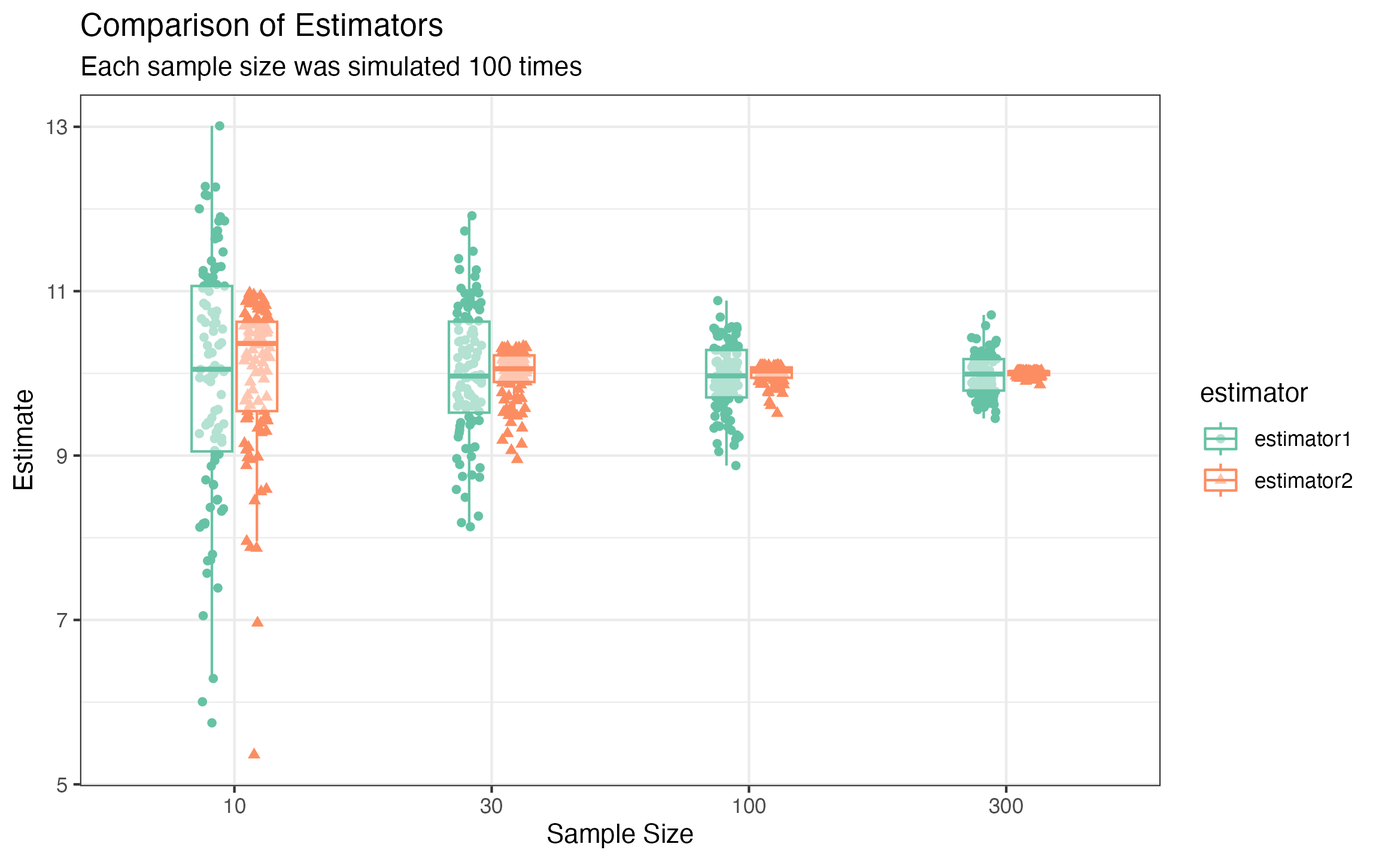
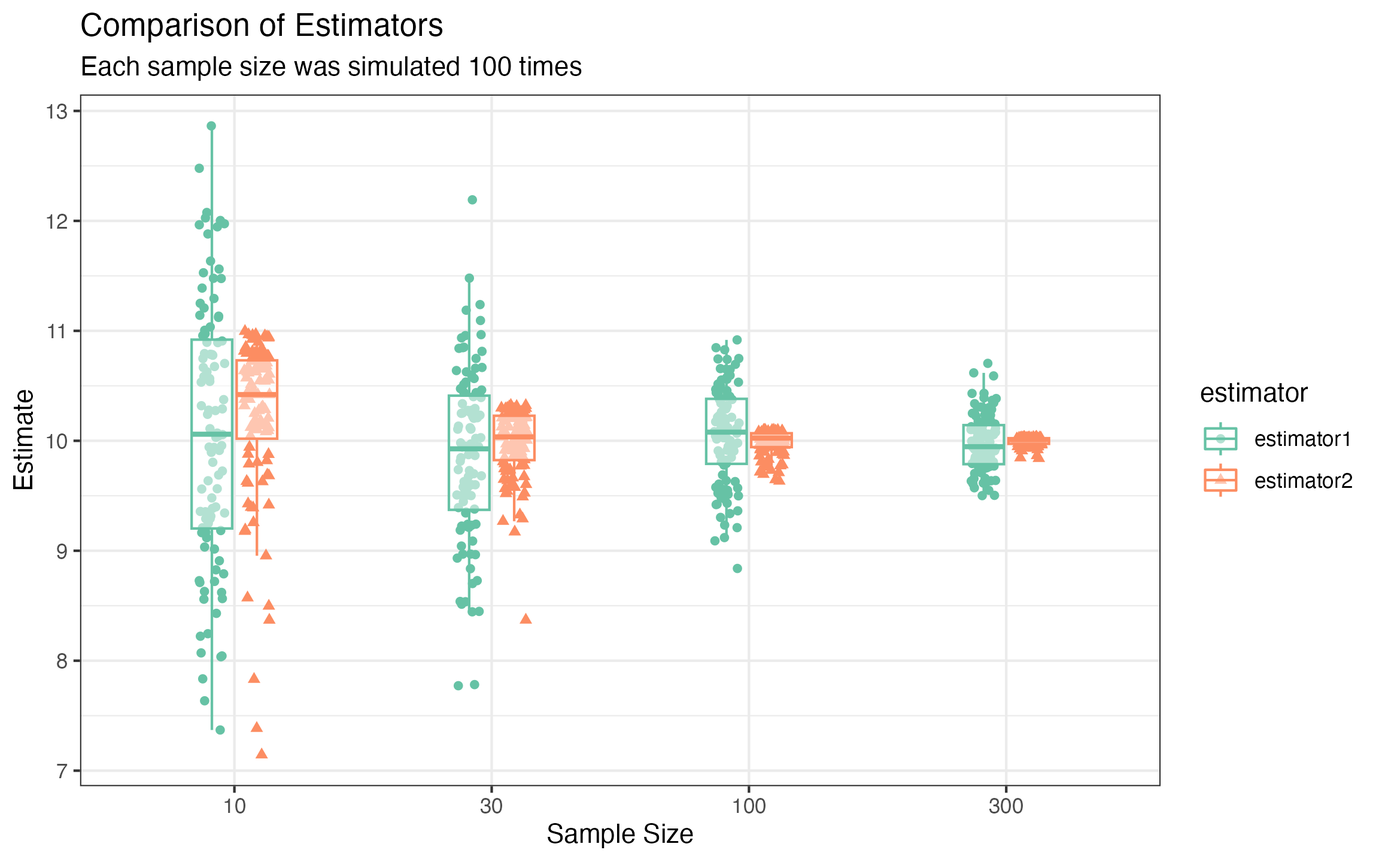
minor formatting update

diff --git a/docs/articles/Comparing-Estimators.html b/docs/articles/Comparing-Estimators.html
@@ -17,6 +17,7 @@
 <script src="../deps/bootstrap-5.3.1/bootstrap.bundle.min.js"></script><link href="../deps/font-awesome-6.4.0/css/all.min.css" rel="stylesheet">
 <link href="../deps/font-awesome-6.4.0/css/v4-shims.min.css" rel="stylesheet">
 <script src="../deps/headroom-0.11.0/headroom.min.js"></script><script src="../deps/headroom-0.11.0/jQuery.headroom.min.js"></script><script src="../deps/bootstrap-toc-1.0.1/bootstrap-toc.min.js"></script><script src="../deps/clipboard.js-2.0.11/clipboard.min.js"></script><script src="../deps/search-1.0.0/autocomplete.jquery.min.js"></script><script src="../deps/search-1.0.0/fuse.min.js"></script><script src="../deps/search-1.0.0/mark.min.js"></script><!-- pkgdown --><script src="../pkgdown.js"></script><meta property="og:title" content="Comparing Estimators">
+<style> img.logo { width: 200px !important; } </style>
 </head>
 <body>
     <a href="#main" class="visually-hidden-focusable">Skip to contents</a>
@@ -68,7 +69,8 @@
 
     
     
-<p>A famous example of an inference problem where a faster than
+<p>A famous example of a statistical inference problem where a faster
+than
 <math display="inline" xmlns="http://www.w3.org/1998/Math/MathML"><semantics><msqrt><mi>n</mi></msqrt><annotation encoding="application/x-tex">\sqrt{n}</annotation></semantics></math>
 rate of convergence is possible is that of inferring the
 <math display="inline" xmlns="http://www.w3.org/1998/Math/MathML"><semantics><mi>θ</mi><annotation encoding="application/x-tex">\theta</annotation></semantics></math>
@@ -79,24 +81,16 @@ model.</p>
 order statistic based estimator empirically using
 <code>{Simulacron3}</code>.</p>
 <p>For our first estimator, we will take
-<math display="block" xmlns="http://www.w3.org/1998/Math/MathML"><semantics><mrow><msub><mover><mi>θ</mi><mo accent="true">̂</mo></mover><mrow><mi>n</mi><mo>,</mo><mtext mathvariant="normal">MoM</mtext></mrow></msub><mo>=</mo><msqrt><mrow><mfrac><mn>3</mn><mi>n</mi></mfrac><munderover><mo>∑</mo><mrow><mi>i</mi><mo>=</mo><mn>1</mn></mrow><mi>n</mi></munderover><msubsup><mi>X</mi><mi>i</mi><mn>2</mn></msubsup></mrow></msqrt><mi>.</mi></mrow><annotation encoding="application/x-tex">
-\hat{\theta}_{n, \text{MoM}} = \sqrt{\frac{3}{n} \sum_{i=1}^n X_i^2}.
+<math display="block" xmlns="http://www.w3.org/1998/Math/MathML"><semantics><mrow><msub><mover><mi>θ</mi><mo accent="true">̂</mo></mover><mrow><mi>n</mi><mo>,</mo><mspace width="0.167em"></mspace><mtext mathvariant="normal">MoM</mtext></mrow></msub><mo>=</mo><msqrt><mrow><mfrac><mn>3</mn><mi>n</mi></mfrac><munderover><mo>∑</mo><mrow><mi>i</mi><mo>=</mo><mn>1</mn></mrow><mi>n</mi></munderover><msubsup><mi>X</mi><mi>i</mi><mn>2</mn></msubsup></mrow></msqrt><mi>.</mi></mrow><annotation encoding="application/x-tex">
+\hat{\theta}_{n,\,\text{MoM}} = \sqrt{\frac{3}{n} \sum_{i=1}^n X_i^2}.
 </annotation></semantics></math></p>
-<p>And our second estimator will be
-<math display="block" xmlns="http://www.w3.org/1998/Math/MathML"><semantics><mrow><msub><mover><mi>θ</mi><mo accent="true">̂</mo></mover><mrow><mi>n</mi><mo>,</mo><mrow><mi mathvariant="normal">m</mi><mi mathvariant="normal">a</mi><mi mathvariant="normal">x</mi></mrow></mrow></msub><mo>=</mo><mfrac><mrow><mi>n</mi><mo>+</mo><mn>1</mn></mrow><mi>n</mi></mfrac><munder><mo>max</mo><mrow><mi>i</mi><mo>=</mo><mn>1</mn><mo>,</mo><mi>.</mi><mi>.</mi><mi>.</mi><mo>,</mo><mi>n</mi></mrow></munder><mrow><mo stretchy="true" form="prefix">|</mo><msub><mi>X</mi><mi>i</mi></msub><mo stretchy="true" form="postfix">|</mo></mrow></mrow><annotation encoding="application/x-tex">
-\hat{\theta}_{n, \mathrm{max}} = \frac{n+1}{n} \max_{i=1,...,n} |X_i|
+<p>Our second estimator will be
+<math display="block" xmlns="http://www.w3.org/1998/Math/MathML"><semantics><mrow><msub><mover><mi>θ</mi><mo accent="true">̂</mo></mover><mrow><mi>n</mi><mo>,</mo><mspace width="0.167em"></mspace><mrow><mi mathvariant="normal">m</mi><mi mathvariant="normal">a</mi><mi mathvariant="normal">x</mi></mrow></mrow></msub><mo>=</mo><mfrac><mrow><mi>n</mi><mo>+</mo><mn>1</mn></mrow><mi>n</mi></mfrac><munder><mo>max</mo><mrow><mi>i</mi><mo>∈</mo><mn>1</mn><mo>,</mo><mi>.</mi><mi>.</mi><mi>.</mi><mo>,</mo><mi>n</mi></mrow></munder><mrow><mo stretchy="true" form="prefix">|</mo><msub><mi>X</mi><mi>i</mi></msub><mo stretchy="true" form="postfix">|</mo></mrow></mrow><annotation encoding="application/x-tex">
+\hat{\theta}_{n,\,\mathrm{max}} = \frac{n+1}{n} \max_{i\in 1,...,n} |X_i|
 </annotation></semantics></math></p>
 <div class="sourceCode" id="cb1"><pre class="downlit sourceCode r">
 <code class="sourceCode R"><span><span class="kw"><a href="https://rdrr.io/r/base/library.html" class="external-link">library</a></span><span class="op">(</span><span class="va">Simulacron3</span><span class="op">)</span></span>
-<span><span class="kw"><a href="https://rdrr.io/r/base/library.html" class="external-link">library</a></span><span class="op">(</span><span class="va"><a href="https://dplyr.tidyverse.org" class="external-link">dplyr</a></span><span class="op">)</span></span>
-<span><span class="co">#&gt; </span></span>
-<span><span class="co">#&gt; Attaching package: 'dplyr'</span></span>
-<span><span class="co">#&gt; The following objects are masked from 'package:stats':</span></span>
-<span><span class="co">#&gt; </span></span>
-<span><span class="co">#&gt;     filter, lag</span></span>
-<span><span class="co">#&gt; The following objects are masked from 'package:base':</span></span>
-<span><span class="co">#&gt; </span></span>
-<span><span class="co">#&gt;     intersect, setdiff, setequal, union</span></span>
+<span><span class="fu"><a href="https://rdrr.io/r/base/message.html" class="external-link">suppressMessages</a></span><span class="op">(</span><span class="kw"><a href="https://rdrr.io/r/base/library.html" class="external-link">library</a></span><span class="op">(</span><span class="va"><a href="https://dplyr.tidyverse.org" class="external-link">dplyr</a></span><span class="op">)</span><span class="op">)</span></span>
 <span><span class="kw"><a href="https://rdrr.io/r/base/library.html" class="external-link">library</a></span><span class="op">(</span><span class="va"><a href="https://ggplot2.tidyverse.org" class="external-link">ggplot2</a></span><span class="op">)</span></span>
 <span><span class="kw"><a href="https://rdrr.io/r/base/library.html" class="external-link">library</a></span><span class="op">(</span><span class="va"><a href="https://tidyr.tidyverse.org" class="external-link">tidyr</a></span><span class="op">)</span></span>
 <span></span>
@@ -126,11 +120,9 @@ order statistic based estimator empirically using
 <span><span class="va">sim</span><span class="op">$</span><span class="fu">set_dgp</span><span class="op">(</span><span class="va">unif_dgp</span><span class="op">)</span></span>
 <span><span class="va">sim</span><span class="op">$</span><span class="fu">set_estimators</span><span class="op">(</span><span class="fu"><a href="https://rdrr.io/r/base/list.html" class="external-link">list</a></span><span class="op">(</span>estimator1 <span class="op">=</span> <span class="va">estimator1</span>, estimator2 <span class="op">=</span> <span class="va">estimator2</span><span class="op">)</span><span class="op">)</span></span>
 <span><span class="va">sim</span><span class="op">$</span><span class="fu">set_summary_stats</span><span class="op">(</span><span class="va">summary_func</span><span class="op">)</span></span>
-<span><span class="va">sim</span><span class="op">$</span><span class="fu">run</span><span class="op">(</span><span class="op">)</span></span>
-<span><span class="co">#&gt; Running simulation...</span></span>
 <span></span>
+<span><span class="co"># setup a data frame to store results in across sample sizes</span></span>
 <span><span class="va">results</span> <span class="op">&lt;-</span> <span class="fu"><a href="https://rdrr.io/r/base/data.frame.html" class="external-link">data.frame</a></span><span class="op">(</span><span class="op">)</span></span>
-<span></span>
 <span><span class="kw">for</span> <span class="op">(</span><span class="va">sample_size_i</span> <span class="kw">in</span> <span class="fu"><a href="https://rdrr.io/r/base/c.html" class="external-link">c</a></span><span class="op">(</span><span class="fl">10</span>, <span class="fl">30</span>, <span class="fl">100</span>, <span class="fl">300</span><span class="op">)</span><span class="op">)</span> <span class="op">{</span></span>
 <span>  <span class="va">sim</span><span class="op">$</span><span class="fu">set_config</span><span class="op">(</span><span class="fu"><a href="https://rdrr.io/r/base/list.html" class="external-link">list</a></span><span class="op">(</span>sample_size <span class="op">=</span> <span class="va">sample_size_i</span><span class="op">)</span><span class="op">)</span></span>
 <span>  <span class="va">sim</span><span class="op">$</span><span class="fu">run</span><span class="op">(</span><span class="op">)</span></span>
@@ -157,6 +149,8 @@ order statistic based estimator empirically using
 <span>  <span class="fu"><a href="https://ggplot2.tidyverse.org/reference/labs.html" class="external-link">ggtitle</a></span><span class="op">(</span><span class="st">"Comparison of Estimators"</span>, <span class="st">"Each sample size was simulated 100 times"</span><span class="op">)</span> <span class="op">+</span> </span>
 <span>  <span class="fu"><a href="https://ggplot2.tidyverse.org/reference/labs.html" class="external-link">labs</a></span><span class="op">(</span>x <span class="op">=</span> <span class="st">"Sample Size"</span>, y <span class="op">=</span> <span class="st">"Estimate"</span><span class="op">)</span> </span></code></pre></div>
 <p><img src="Comparing-Estimators_files/figure-html/setup-1.png" width="768"></p>
+<p>We can see that we were right: <code>estimator2</code> is converging
+quite a bit faster than <code>estimator1</code>.</p>
   </main>
 </div>
 

diff --git a/docs/404.html b/docs/404.html
@@ -6,26 +6,27 @@
 <meta http-equiv="X-UA-Compatible" content="IE=edge">
 <meta name="viewport" content="width=device-width, initial-scale=1, shrink-to-fit=no">
 <title>Page not found (404) • Simulacron3</title>
-<!-- favicons --><link rel="icon" type="image/png" sizes="16x16" href="favicon-16x16.png">
-<link rel="icon" type="image/png" sizes="32x32" href="favicon-32x32.png">
-<link rel="apple-touch-icon" type="image/png" sizes="180x180" href="apple-touch-icon.png">
-<link rel="apple-touch-icon" type="image/png" sizes="120x120" href="apple-touch-icon-120x120.png">
-<link rel="apple-touch-icon" type="image/png" sizes="76x76" href="apple-touch-icon-76x76.png">
-<link rel="apple-touch-icon" type="image/png" sizes="60x60" href="apple-touch-icon-60x60.png">
-<script src="deps/jquery-3.6.0/jquery-3.6.0.min.js"></script><meta name="viewport" content="width=device-width, initial-scale=1, shrink-to-fit=no">
-<link href="deps/bootstrap-5.3.1/bootstrap.min.css" rel="stylesheet">
-<script src="deps/bootstrap-5.3.1/bootstrap.bundle.min.js"></script><link href="deps/font-awesome-6.4.0/css/all.min.css" rel="stylesheet">
-<link href="deps/font-awesome-6.4.0/css/v4-shims.min.css" rel="stylesheet">
-<script src="deps/headroom-0.11.0/headroom.min.js"></script><script src="deps/headroom-0.11.0/jQuery.headroom.min.js"></script><script src="deps/bootstrap-toc-1.0.1/bootstrap-toc.min.js"></script><script src="deps/clipboard.js-2.0.11/clipboard.min.js"></script><script src="deps/search-1.0.0/autocomplete.jquery.min.js"></script><script src="deps/search-1.0.0/fuse.min.js"></script><script src="deps/search-1.0.0/mark.min.js"></script><!-- pkgdown --><script src="pkgdown.js"></script><meta property="og:title" content="Page not found (404)">
-<meta property="og:image" content="/logo.png">
+<!-- favicons --><link rel="icon" type="image/png" sizes="16x16" href="ctesta01.github.io/Simulacron3/favicon-16x16.png">
+<link rel="icon" type="image/png" sizes="32x32" href="ctesta01.github.io/Simulacron3/favicon-32x32.png">
+<link rel="apple-touch-icon" type="image/png" sizes="180x180" href="ctesta01.github.io/Simulacron3/apple-touch-icon.png">
+<link rel="apple-touch-icon" type="image/png" sizes="120x120" href="ctesta01.github.io/Simulacron3/apple-touch-icon-120x120.png">
+<link rel="apple-touch-icon" type="image/png" sizes="76x76" href="ctesta01.github.io/Simulacron3/apple-touch-icon-76x76.png">
+<link rel="apple-touch-icon" type="image/png" sizes="60x60" href="ctesta01.github.io/Simulacron3/apple-touch-icon-60x60.png">
+<script src="ctesta01.github.io/Simulacron3/deps/jquery-3.6.0/jquery-3.6.0.min.js"></script><meta name="viewport" content="width=device-width, initial-scale=1, shrink-to-fit=no">
+<link href="ctesta01.github.io/Simulacron3/deps/bootstrap-5.3.1/bootstrap.min.css" rel="stylesheet">
+<script src="ctesta01.github.io/Simulacron3/deps/bootstrap-5.3.1/bootstrap.bundle.min.js"></script><link href="ctesta01.github.io/Simulacron3/deps/font-awesome-6.4.0/css/all.min.css" rel="stylesheet">
+<link href="ctesta01.github.io/Simulacron3/deps/font-awesome-6.4.0/css/v4-shims.min.css" rel="stylesheet">
+<script src="ctesta01.github.io/Simulacron3/deps/headroom-0.11.0/headroom.min.js"></script><script src="ctesta01.github.io/Simulacron3/deps/headroom-0.11.0/jQuery.headroom.min.js"></script><script src="ctesta01.github.io/Simulacron3/deps/bootstrap-toc-1.0.1/bootstrap-toc.min.js"></script><script src="ctesta01.github.io/Simulacron3/deps/clipboard.js-2.0.11/clipboard.min.js"></script><script src="ctesta01.github.io/Simulacron3/deps/search-1.0.0/autocomplete.jquery.min.js"></script><script src="ctesta01.github.io/Simulacron3/deps/search-1.0.0/fuse.min.js"></script><script src="ctesta01.github.io/Simulacron3/deps/search-1.0.0/mark.min.js"></script><!-- pkgdown --><script src="ctesta01.github.io/Simulacron3/pkgdown.js"></script><meta property="og:title" content="Page not found (404)">
+<meta property="og:image" content="ctesta01.github.io/Simulacron3/logo.png">
+<style> img.logo { width: 200px !important; } </style>
 </head>
 <body>
-    <a href="#main" class="visually-hidden-focusable">Skip to contents</a>
+    <a href="ctesta01.github.io/Simulacron3/#main" class="visually-hidden-focusable">Skip to contents</a>
 
 
     <nav class="navbar navbar-expand-lg fixed-top bg-light" data-bs-theme="light" aria-label="Site navigation"><div class="container">
 
-    <a class="navbar-brand me-2" href="index.html">Simulacron3</a>
+    <a class="navbar-brand me-2" href="ctesta01.github.io/Simulacron3/index.html">Simulacron3</a>
 
     <small class="nav-text text-muted me-auto" data-bs-toggle="tooltip" data-bs-placement="bottom" title="">0.0.001</small>
 
@@ -36,11 +37,11 @@
 
     <div id="navbar" class="collapse navbar-collapse ms-3">
       <ul class="navbar-nav me-auto">
-<li class="nav-item"><a class="nav-link" href="reference/index.html">Reference</a></li>
+<li class="nav-item"><a class="nav-link" href="ctesta01.github.io/Simulacron3/reference/index.html">Reference</a></li>
 <li class="nav-item dropdown">
   <button class="nav-link dropdown-toggle" type="button" id="dropdown-articles" data-bs-toggle="dropdown" aria-expanded="false" aria-haspopup="true">Articles</button>
   <ul class="dropdown-menu" aria-labelledby="dropdown-articles">
-<li><a class="dropdown-item" href="articles/Comparing-Estimators.html">Comparing Estimators</a></li>
+<li><a class="dropdown-item" href="ctesta01.github.io/Simulacron3/articles/Comparing-Estimators.html">Comparing Estimators</a></li>
   </ul>
 </li>
       </ul>
@@ -56,7 +57,7 @@
 </nav><div class="container template-title-body">
 <div class="row">
   <main id="main" class="col-md-9"><div class="page-header">
-      <img src="logo.png" class="logo" alt=""><h1>Page not found (404)</h1>
+      <img src="ctesta01.github.io/Simulacron3/logo.png" class="logo" alt=""><h1>Page not found (404)</h1>
 
     </div>
 

diff --git a/docs/reference/index.html b/docs/reference/index.html
@@ -1,5 +1,5 @@
 <!DOCTYPE html>
-<!-- Generated by pkgdown: do not edit by hand --><html lang="en"><head><meta http-equiv="Content-Type" content="text/html; charset=UTF-8"><meta charset="utf-8"><meta http-equiv="X-UA-Compatible" content="IE=edge"><meta name="viewport" content="width=device-width, initial-scale=1, shrink-to-fit=no"><title>Package index • Simulacron3</title><!-- favicons --><link rel="icon" type="image/png" sizes="16x16" href="../favicon-16x16.png"><link rel="icon" type="image/png" sizes="32x32" href="../favicon-32x32.png"><link rel="apple-touch-icon" type="image/png" sizes="180x180" href="../apple-touch-icon.png"><link rel="apple-touch-icon" type="image/png" sizes="120x120" href="../apple-touch-icon-120x120.png"><link rel="apple-touch-icon" type="image/png" sizes="76x76" href="../apple-touch-icon-76x76.png"><link rel="apple-touch-icon" type="image/png" sizes="60x60" href="../apple-touch-icon-60x60.png"><script src="../deps/jquery-3.6.0/jquery-3.6.0.min.js"></script><meta name="viewport" content="width=device-width, initial-scale=1, shrink-to-fit=no"><link href="../deps/bootstrap-5.3.1/bootstrap.min.css" rel="stylesheet"><script src="../deps/bootstrap-5.3.1/bootstrap.bundle.min.js"></script><link href="../deps/font-awesome-6.4.0/css/all.min.css" rel="stylesheet"><link href="../deps/font-awesome-6.4.0/css/v4-shims.min.css" rel="stylesheet"><script src="../deps/headroom-0.11.0/headroom.min.js"></script><script src="../deps/headroom-0.11.0/jQuery.headroom.min.js"></script><script src="../deps/bootstrap-toc-1.0.1/bootstrap-toc.min.js"></script><script src="../deps/clipboard.js-2.0.11/clipboard.min.js"></script><script src="../deps/search-1.0.0/autocomplete.jquery.min.js"></script><script src="../deps/search-1.0.0/fuse.min.js"></script><script src="../deps/search-1.0.0/mark.min.js"></script><!-- pkgdown --><script src="../pkgdown.js"></script><meta property="og:title" content="Package index"><meta property="og:image" content="/logo.png"></head><body>
+<!-- Generated by pkgdown: do not edit by hand --><html lang="en"><head><meta http-equiv="Content-Type" content="text/html; charset=UTF-8"><meta charset="utf-8"><meta http-equiv="X-UA-Compatible" content="IE=edge"><meta name="viewport" content="width=device-width, initial-scale=1, shrink-to-fit=no"><title>Package index • Simulacron3</title><!-- favicons --><link rel="icon" type="image/png" sizes="16x16" href="../favicon-16x16.png"><link rel="icon" type="image/png" sizes="32x32" href="../favicon-32x32.png"><link rel="apple-touch-icon" type="image/png" sizes="180x180" href="../apple-touch-icon.png"><link rel="apple-touch-icon" type="image/png" sizes="120x120" href="../apple-touch-icon-120x120.png"><link rel="apple-touch-icon" type="image/png" sizes="76x76" href="../apple-touch-icon-76x76.png"><link rel="apple-touch-icon" type="image/png" sizes="60x60" href="../apple-touch-icon-60x60.png"><script src="../deps/jquery-3.6.0/jquery-3.6.0.min.js"></script><meta name="viewport" content="width=device-width, initial-scale=1, shrink-to-fit=no"><link href="../deps/bootstrap-5.3.1/bootstrap.min.css" rel="stylesheet"><script src="../deps/bootstrap-5.3.1/bootstrap.bundle.min.js"></script><link href="../deps/font-awesome-6.4.0/css/all.min.css" rel="stylesheet"><link href="../deps/font-awesome-6.4.0/css/v4-shims.min.css" rel="stylesheet"><script src="../deps/headroom-0.11.0/headroom.min.js"></script><script src="../deps/headroom-0.11.0/jQuery.headroom.min.js"></script><script src="../deps/bootstrap-toc-1.0.1/bootstrap-toc.min.js"></script><script src="../deps/clipboard.js-2.0.11/clipboard.min.js"></script><script src="../deps/search-1.0.0/autocomplete.jquery.min.js"></script><script src="../deps/search-1.0.0/fuse.min.js"></script><script src="../deps/search-1.0.0/mark.min.js"></script><!-- pkgdown --><script src="../pkgdown.js"></script><meta property="og:title" content="Package index"><meta property="og:image" content="ctesta01.github.io/Simulacron3/logo.png"><style> img.logo { width: 200px !important; } </style></head><body>
     <a href="#main" class="visually-hidden-focusable">Skip to contents</a>
 
 

diff --git a/docs/articles/index.html b/docs/articles/index.html
@@ -1,5 +1,5 @@
 <!DOCTYPE html>
-<!-- Generated by pkgdown: do not edit by hand --><html lang="en"><head><meta http-equiv="Content-Type" content="text/html; charset=UTF-8"><meta charset="utf-8"><meta http-equiv="X-UA-Compatible" content="IE=edge"><meta name="viewport" content="width=device-width, initial-scale=1, shrink-to-fit=no"><title>Articles • Simulacron3</title><!-- favicons --><link rel="icon" type="image/png" sizes="16x16" href="../favicon-16x16.png"><link rel="icon" type="image/png" sizes="32x32" href="../favicon-32x32.png"><link rel="apple-touch-icon" type="image/png" sizes="180x180" href="../apple-touch-icon.png"><link rel="apple-touch-icon" type="image/png" sizes="120x120" href="../apple-touch-icon-120x120.png"><link rel="apple-touch-icon" type="image/png" sizes="76x76" href="../apple-touch-icon-76x76.png"><link rel="apple-touch-icon" type="image/png" sizes="60x60" href="../apple-touch-icon-60x60.png"><script src="../deps/jquery-3.6.0/jquery-3.6.0.min.js"></script><meta name="viewport" content="width=device-width, initial-scale=1, shrink-to-fit=no"><link href="../deps/bootstrap-5.3.1/bootstrap.min.css" rel="stylesheet"><script src="../deps/bootstrap-5.3.1/bootstrap.bundle.min.js"></script><link href="../deps/font-awesome-6.4.0/css/all.min.css" rel="stylesheet"><link href="../deps/font-awesome-6.4.0/css/v4-shims.min.css" rel="stylesheet"><script src="../deps/headroom-0.11.0/headroom.min.js"></script><script src="../deps/headroom-0.11.0/jQuery.headroom.min.js"></script><script src="../deps/bootstrap-toc-1.0.1/bootstrap-toc.min.js"></script><script src="../deps/clipboard.js-2.0.11/clipboard.min.js"></script><script src="../deps/search-1.0.0/autocomplete.jquery.min.js"></script><script src="../deps/search-1.0.0/fuse.min.js"></script><script src="../deps/search-1.0.0/mark.min.js"></script><!-- pkgdown --><script src="../pkgdown.js"></script><meta property="og:title" content="Articles"><meta property="og:image" content="/logo.png"></head><body>
+<!-- Generated by pkgdown: do not edit by hand --><html lang="en"><head><meta http-equiv="Content-Type" content="text/html; charset=UTF-8"><meta charset="utf-8"><meta http-equiv="X-UA-Compatible" content="IE=edge"><meta name="viewport" content="width=device-width, initial-scale=1, shrink-to-fit=no"><title>Articles • Simulacron3</title><!-- favicons --><link rel="icon" type="image/png" sizes="16x16" href="../favicon-16x16.png"><link rel="icon" type="image/png" sizes="32x32" href="../favicon-32x32.png"><link rel="apple-touch-icon" type="image/png" sizes="180x180" href="../apple-touch-icon.png"><link rel="apple-touch-icon" type="image/png" sizes="120x120" href="../apple-touch-icon-120x120.png"><link rel="apple-touch-icon" type="image/png" sizes="76x76" href="../apple-touch-icon-76x76.png"><link rel="apple-touch-icon" type="image/png" sizes="60x60" href="../apple-touch-icon-60x60.png"><script src="../deps/jquery-3.6.0/jquery-3.6.0.min.js"></script><meta name="viewport" content="width=device-width, initial-scale=1, shrink-to-fit=no"><link href="../deps/bootstrap-5.3.1/bootstrap.min.css" rel="stylesheet"><script src="../deps/bootstrap-5.3.1/bootstrap.bundle.min.js"></script><link href="../deps/font-awesome-6.4.0/css/all.min.css" rel="stylesheet"><link href="../deps/font-awesome-6.4.0/css/v4-shims.min.css" rel="stylesheet"><script src="../deps/headroom-0.11.0/headroom.min.js"></script><script src="../deps/headroom-0.11.0/jQuery.headroom.min.js"></script><script src="../deps/bootstrap-toc-1.0.1/bootstrap-toc.min.js"></script><script src="../deps/clipboard.js-2.0.11/clipboard.min.js"></script><script src="../deps/search-1.0.0/autocomplete.jquery.min.js"></script><script src="../deps/search-1.0.0/fuse.min.js"></script><script src="../deps/search-1.0.0/mark.min.js"></script><!-- pkgdown --><script src="../pkgdown.js"></script><meta property="og:title" content="Articles"><meta property="og:image" content="ctesta01.github.io/Simulacron3/logo.png"><style> img.logo { width: 200px !important; } </style></head><body>
     <a href="#main" class="visually-hidden-focusable">Skip to contents</a>
 
 

diff --git a/docs/authors.html b/docs/authors.html
@@ -1,5 +1,5 @@
 <!DOCTYPE html>
-<!-- Generated by pkgdown: do not edit by hand --><html lang="en"><head><meta http-equiv="Content-Type" content="text/html; charset=UTF-8"><meta charset="utf-8"><meta http-equiv="X-UA-Compatible" content="IE=edge"><meta name="viewport" content="width=device-width, initial-scale=1, shrink-to-fit=no"><title>Authors and Citation • Simulacron3</title><!-- favicons --><link rel="icon" type="image/png" sizes="16x16" href="favicon-16x16.png"><link rel="icon" type="image/png" sizes="32x32" href="favicon-32x32.png"><link rel="apple-touch-icon" type="image/png" sizes="180x180" href="apple-touch-icon.png"><link rel="apple-touch-icon" type="image/png" sizes="120x120" href="apple-touch-icon-120x120.png"><link rel="apple-touch-icon" type="image/png" sizes="76x76" href="apple-touch-icon-76x76.png"><link rel="apple-touch-icon" type="image/png" sizes="60x60" href="apple-touch-icon-60x60.png"><script src="deps/jquery-3.6.0/jquery-3.6.0.min.js"></script><meta name="viewport" content="width=device-width, initial-scale=1, shrink-to-fit=no"><link href="deps/bootstrap-5.3.1/bootstrap.min.css" rel="stylesheet"><script src="deps/bootstrap-5.3.1/bootstrap.bundle.min.js"></script><link href="deps/font-awesome-6.4.0/css/all.min.css" rel="stylesheet"><link href="deps/font-awesome-6.4.0/css/v4-shims.min.css" rel="stylesheet"><script src="deps/headroom-0.11.0/headroom.min.js"></script><script src="deps/headroom-0.11.0/jQuery.headroom.min.js"></script><script src="deps/bootstrap-toc-1.0.1/bootstrap-toc.min.js"></script><script src="deps/clipboard.js-2.0.11/clipboard.min.js"></script><script src="deps/search-1.0.0/autocomplete.jquery.min.js"></script><script src="deps/search-1.0.0/fuse.min.js"></script><script src="deps/search-1.0.0/mark.min.js"></script><!-- pkgdown --><script src="pkgdown.js"></script><meta property="og:title" content="Authors and Citation"><meta property="og:image" content="/logo.png"></head><body>
+<!-- Generated by pkgdown: do not edit by hand --><html lang="en"><head><meta http-equiv="Content-Type" content="text/html; charset=UTF-8"><meta charset="utf-8"><meta http-equiv="X-UA-Compatible" content="IE=edge"><meta name="viewport" content="width=device-width, initial-scale=1, shrink-to-fit=no"><title>Authors and Citation • Simulacron3</title><!-- favicons --><link rel="icon" type="image/png" sizes="16x16" href="favicon-16x16.png"><link rel="icon" type="image/png" sizes="32x32" href="favicon-32x32.png"><link rel="apple-touch-icon" type="image/png" sizes="180x180" href="apple-touch-icon.png"><link rel="apple-touch-icon" type="image/png" sizes="120x120" href="apple-touch-icon-120x120.png"><link rel="apple-touch-icon" type="image/png" sizes="76x76" href="apple-touch-icon-76x76.png"><link rel="apple-touch-icon" type="image/png" sizes="60x60" href="apple-touch-icon-60x60.png"><script src="deps/jquery-3.6.0/jquery-3.6.0.min.js"></script><meta name="viewport" content="width=device-width, initial-scale=1, shrink-to-fit=no"><link href="deps/bootstrap-5.3.1/bootstrap.min.css" rel="stylesheet"><script src="deps/bootstrap-5.3.1/bootstrap.bundle.min.js"></script><link href="deps/font-awesome-6.4.0/css/all.min.css" rel="stylesheet"><link href="deps/font-awesome-6.4.0/css/v4-shims.min.css" rel="stylesheet"><script src="deps/headroom-0.11.0/headroom.min.js"></script><script src="deps/headroom-0.11.0/jQuery.headroom.min.js"></script><script src="deps/bootstrap-toc-1.0.1/bootstrap-toc.min.js"></script><script src="deps/clipboard.js-2.0.11/clipboard.min.js"></script><script src="deps/search-1.0.0/autocomplete.jquery.min.js"></script><script src="deps/search-1.0.0/fuse.min.js"></script><script src="deps/search-1.0.0/mark.min.js"></script><!-- pkgdown --><script src="pkgdown.js"></script><meta property="og:title" content="Authors and Citation"><meta property="og:image" content="ctesta01.github.io/Simulacron3/logo.png"><style> img.logo { width: 200px !important; } </style></head><body>
     <a href="#main" class="visually-hidden-focusable">Skip to contents</a>
 
 

diff --git a/docs/LICENSE.html b/docs/LICENSE.html
@@ -1,5 +1,5 @@
 <!DOCTYPE html>
-<!-- Generated by pkgdown: do not edit by hand --><html lang="en"><head><meta http-equiv="Content-Type" content="text/html; charset=UTF-8"><meta charset="utf-8"><meta http-equiv="X-UA-Compatible" content="IE=edge"><meta name="viewport" content="width=device-width, initial-scale=1, shrink-to-fit=no"><title>MIT License • Simulacron3</title><!-- favicons --><link rel="icon" type="image/png" sizes="16x16" href="favicon-16x16.png"><link rel="icon" type="image/png" sizes="32x32" href="favicon-32x32.png"><link rel="apple-touch-icon" type="image/png" sizes="180x180" href="apple-touch-icon.png"><link rel="apple-touch-icon" type="image/png" sizes="120x120" href="apple-touch-icon-120x120.png"><link rel="apple-touch-icon" type="image/png" sizes="76x76" href="apple-touch-icon-76x76.png"><link rel="apple-touch-icon" type="image/png" sizes="60x60" href="apple-touch-icon-60x60.png"><script src="deps/jquery-3.6.0/jquery-3.6.0.min.js"></script><meta name="viewport" content="width=device-width, initial-scale=1, shrink-to-fit=no"><link href="deps/bootstrap-5.3.1/bootstrap.min.css" rel="stylesheet"><script src="deps/bootstrap-5.3.1/bootstrap.bundle.min.js"></script><link href="deps/font-awesome-6.4.0/css/all.min.css" rel="stylesheet"><link href="deps/font-awesome-6.4.0/css/v4-shims.min.css" rel="stylesheet"><script src="deps/headroom-0.11.0/headroom.min.js"></script><script src="deps/headroom-0.11.0/jQuery.headroom.min.js"></script><script src="deps/bootstrap-toc-1.0.1/bootstrap-toc.min.js"></script><script src="deps/clipboard.js-2.0.11/clipboard.min.js"></script><script src="deps/search-1.0.0/autocomplete.jquery.min.js"></script><script src="deps/search-1.0.0/fuse.min.js"></script><script src="deps/search-1.0.0/mark.min.js"></script><!-- pkgdown --><script src="pkgdown.js"></script><meta property="og:title" content="MIT License"><meta property="og:image" content="/logo.png"></head><body>
+<!-- Generated by pkgdown: do not edit by hand --><html lang="en"><head><meta http-equiv="Content-Type" content="text/html; charset=UTF-8"><meta charset="utf-8"><meta http-equiv="X-UA-Compatible" content="IE=edge"><meta name="viewport" content="width=device-width, initial-scale=1, shrink-to-fit=no"><title>MIT License • Simulacron3</title><!-- favicons --><link rel="icon" type="image/png" sizes="16x16" href="favicon-16x16.png"><link rel="icon" type="image/png" sizes="32x32" href="favicon-32x32.png"><link rel="apple-touch-icon" type="image/png" sizes="180x180" href="apple-touch-icon.png"><link rel="apple-touch-icon" type="image/png" sizes="120x120" href="apple-touch-icon-120x120.png"><link rel="apple-touch-icon" type="image/png" sizes="76x76" href="apple-touch-icon-76x76.png"><link rel="apple-touch-icon" type="image/png" sizes="60x60" href="apple-touch-icon-60x60.png"><script src="deps/jquery-3.6.0/jquery-3.6.0.min.js"></script><meta name="viewport" content="width=device-width, initial-scale=1, shrink-to-fit=no"><link href="deps/bootstrap-5.3.1/bootstrap.min.css" rel="stylesheet"><script src="deps/bootstrap-5.3.1/bootstrap.bundle.min.js"></script><link href="deps/font-awesome-6.4.0/css/all.min.css" rel="stylesheet"><link href="deps/font-awesome-6.4.0/css/v4-shims.min.css" rel="stylesheet"><script src="deps/headroom-0.11.0/headroom.min.js"></script><script src="deps/headroom-0.11.0/jQuery.headroom.min.js"></script><script src="deps/bootstrap-toc-1.0.1/bootstrap-toc.min.js"></script><script src="deps/clipboard.js-2.0.11/clipboard.min.js"></script><script src="deps/search-1.0.0/autocomplete.jquery.min.js"></script><script src="deps/search-1.0.0/fuse.min.js"></script><script src="deps/search-1.0.0/mark.min.js"></script><!-- pkgdown --><script src="pkgdown.js"></script><meta property="og:title" content="MIT License"><meta property="og:image" content="ctesta01.github.io/Simulacron3/logo.png"><style> img.logo { width: 200px !important; } </style></head><body>
     <a href="#main" class="visually-hidden-focusable">Skip to contents</a>
 
 

diff --git a/docs/LICENSE-text.html b/docs/LICENSE-text.html
@@ -1,5 +1,5 @@
 <!DOCTYPE html>
-<!-- Generated by pkgdown: do not edit by hand --><html lang="en"><head><meta http-equiv="Content-Type" content="text/html; charset=UTF-8"><meta charset="utf-8"><meta http-equiv="X-UA-Compatible" content="IE=edge"><meta name="viewport" content="width=device-width, initial-scale=1, shrink-to-fit=no"><title>License • Simulacron3</title><!-- favicons --><link rel="icon" type="image/png" sizes="16x16" href="favicon-16x16.png"><link rel="icon" type="image/png" sizes="32x32" href="favicon-32x32.png"><link rel="apple-touch-icon" type="image/png" sizes="180x180" href="apple-touch-icon.png"><link rel="apple-touch-icon" type="image/png" sizes="120x120" href="apple-touch-icon-120x120.png"><link rel="apple-touch-icon" type="image/png" sizes="76x76" href="apple-touch-icon-76x76.png"><link rel="apple-touch-icon" type="image/png" sizes="60x60" href="apple-touch-icon-60x60.png"><script src="deps/jquery-3.6.0/jquery-3.6.0.min.js"></script><meta name="viewport" content="width=device-width, initial-scale=1, shrink-to-fit=no"><link href="deps/bootstrap-5.3.1/bootstrap.min.css" rel="stylesheet"><script src="deps/bootstrap-5.3.1/bootstrap.bundle.min.js"></script><link href="deps/font-awesome-6.4.0/css/all.min.css" rel="stylesheet"><link href="deps/font-awesome-6.4.0/css/v4-shims.min.css" rel="stylesheet"><script src="deps/headroom-0.11.0/headroom.min.js"></script><script src="deps/headroom-0.11.0/jQuery.headroom.min.js"></script><script src="deps/bootstrap-toc-1.0.1/bootstrap-toc.min.js"></script><script src="deps/clipboard.js-2.0.11/clipboard.min.js"></script><script src="deps/search-1.0.0/autocomplete.jquery.min.js"></script><script src="deps/search-1.0.0/fuse.min.js"></script><script src="deps/search-1.0.0/mark.min.js"></script><!-- pkgdown --><script src="pkgdown.js"></script><meta property="og:title" content="License"><meta property="og:image" content="/logo.png"></head><body>
+<!-- Generated by pkgdown: do not edit by hand --><html lang="en"><head><meta http-equiv="Content-Type" content="text/html; charset=UTF-8"><meta charset="utf-8"><meta http-equiv="X-UA-Compatible" content="IE=edge"><meta name="viewport" content="width=device-width, initial-scale=1, shrink-to-fit=no"><title>License • Simulacron3</title><!-- favicons --><link rel="icon" type="image/png" sizes="16x16" href="favicon-16x16.png"><link rel="icon" type="image/png" sizes="32x32" href="favicon-32x32.png"><link rel="apple-touch-icon" type="image/png" sizes="180x180" href="apple-touch-icon.png"><link rel="apple-touch-icon" type="image/png" sizes="120x120" href="apple-touch-icon-120x120.png"><link rel="apple-touch-icon" type="image/png" sizes="76x76" href="apple-touch-icon-76x76.png"><link rel="apple-touch-icon" type="image/png" sizes="60x60" href="apple-touch-icon-60x60.png"><script src="deps/jquery-3.6.0/jquery-3.6.0.min.js"></script><meta name="viewport" content="width=device-width, initial-scale=1, shrink-to-fit=no"><link href="deps/bootstrap-5.3.1/bootstrap.min.css" rel="stylesheet"><script src="deps/bootstrap-5.3.1/bootstrap.bundle.min.js"></script><link href="deps/font-awesome-6.4.0/css/all.min.css" rel="stylesheet"><link href="deps/font-awesome-6.4.0/css/v4-shims.min.css" rel="stylesheet"><script src="deps/headroom-0.11.0/headroom.min.js"></script><script src="deps/headroom-0.11.0/jQuery.headroom.min.js"></script><script src="deps/bootstrap-toc-1.0.1/bootstrap-toc.min.js"></script><script src="deps/clipboard.js-2.0.11/clipboard.min.js"></script><script src="deps/search-1.0.0/autocomplete.jquery.min.js"></script><script src="deps/search-1.0.0/fuse.min.js"></script><script src="deps/search-1.0.0/mark.min.js"></script><!-- pkgdown --><script src="pkgdown.js"></script><meta property="og:title" content="License"><meta property="og:image" content="ctesta01.github.io/Simulacron3/logo.png"><style> img.logo { width: 200px !important; } </style></head><body>
     <a href="#main" class="visually-hidden-focusable">Skip to contents</a>
 
 

diff --git a/docs/index.html b/docs/index.html
@@ -19,7 +19,8 @@
 <script src="deps/headroom-0.11.0/headroom.min.js"></script><script src="deps/headroom-0.11.0/jQuery.headroom.min.js"></script><script src="deps/bootstrap-toc-1.0.1/bootstrap-toc.min.js"></script><script src="deps/clipboard.js-2.0.11/clipboard.min.js"></script><script src="deps/search-1.0.0/autocomplete.jquery.min.js"></script><script src="deps/search-1.0.0/fuse.min.js"></script><script src="deps/search-1.0.0/mark.min.js"></script><!-- pkgdown --><script src="pkgdown.js"></script><meta property="og:title" content="Simulations using an R6 Class for a Boilerplate Workflow">
 <meta name="description" content="What the package does (one paragraph).">
 <meta property="og:description" content="What the package does (one paragraph).">
-<meta property="og:image" content="/logo.png">
+<meta property="og:image" content="ctesta01.github.io/Simulacron3/logo.png">
+<style> img.logo { width: 200px !important; } </style>
 </head>
 <body>
     <a href="#main" class="visually-hidden-focusable">Skip to contents</a>

diff --git a/docs/reference/Simulation.html b/docs/reference/Simulation.html
@@ -3,7 +3,7 @@
 list of estimators, config, list of summary_statistics to compute, and
 provides a get_results method."><meta property="og:description" content="Takes a specification for a data generating process (dgp),
 list of estimators, config, list of summary_statistics to compute, and
-provides a get_results method."><meta property="og:image" content="/logo.png"></head><body>
+provides a get_results method."><meta property="og:image" content="ctesta01.github.io/Simulacron3/logo.png"><style> img.logo { width: 200px !important; } </style></head><body>
     <a href="#main" class="visually-hidden-focusable">Skip to contents</a>
 
 

diff --git a/docs/articles/articles/Comparing-Estimators.html b/docs/articles/articles/Comparing-Estimators.html
@@ -1,0 +1,8 @@
+<html>
+  <head>
+    <meta http-equiv="refresh" content="0;URL=ctesta01.github.io/Simulacron3/articles/Comparing-Estimators.html" />
+    <meta name="robots" content="noindex">
+    <link rel="canonical" href="ctesta01.github.io/Simulacron3/articles/Comparing-Estimators.html">
+  </head>
+</html>
+
